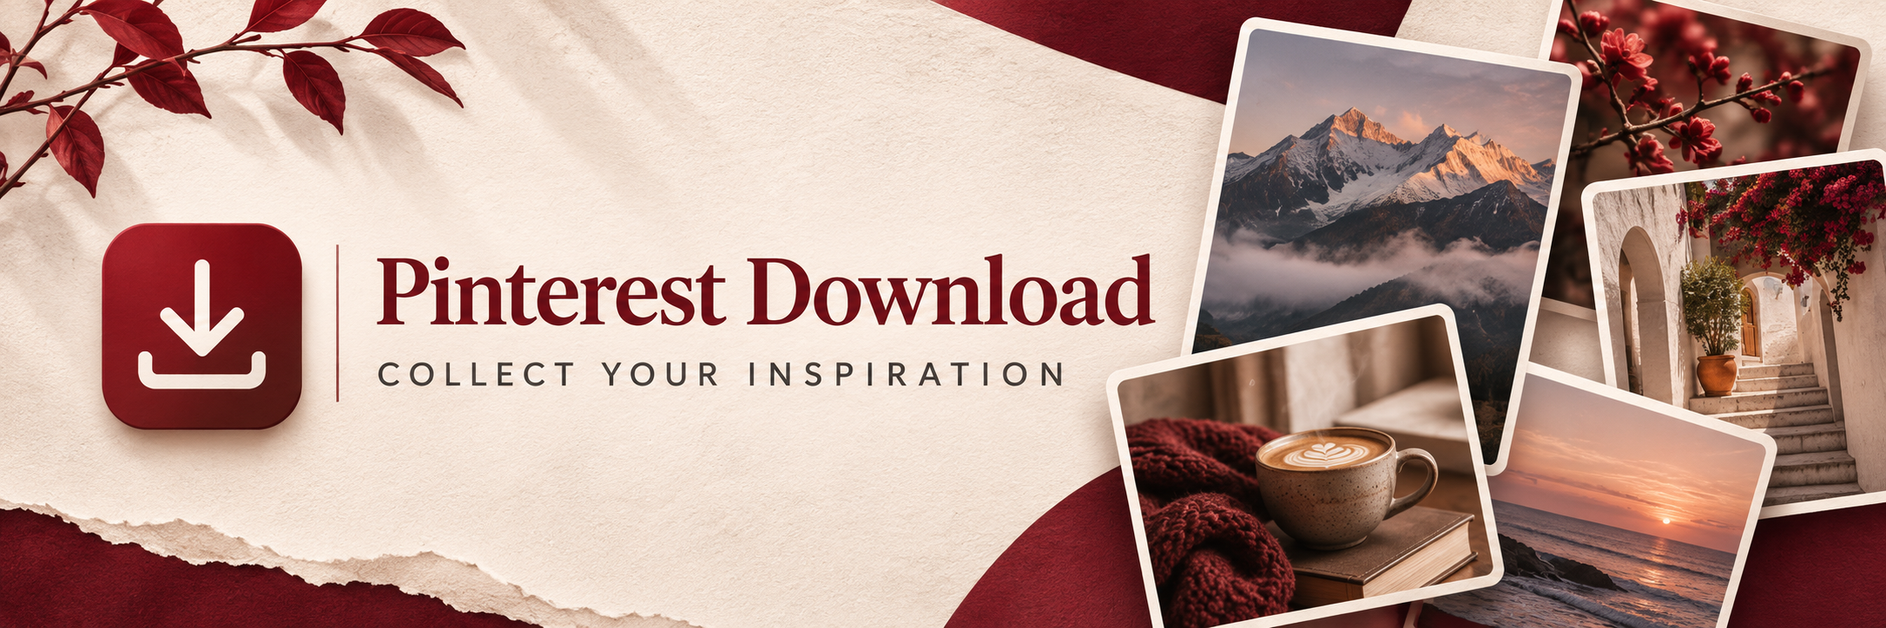
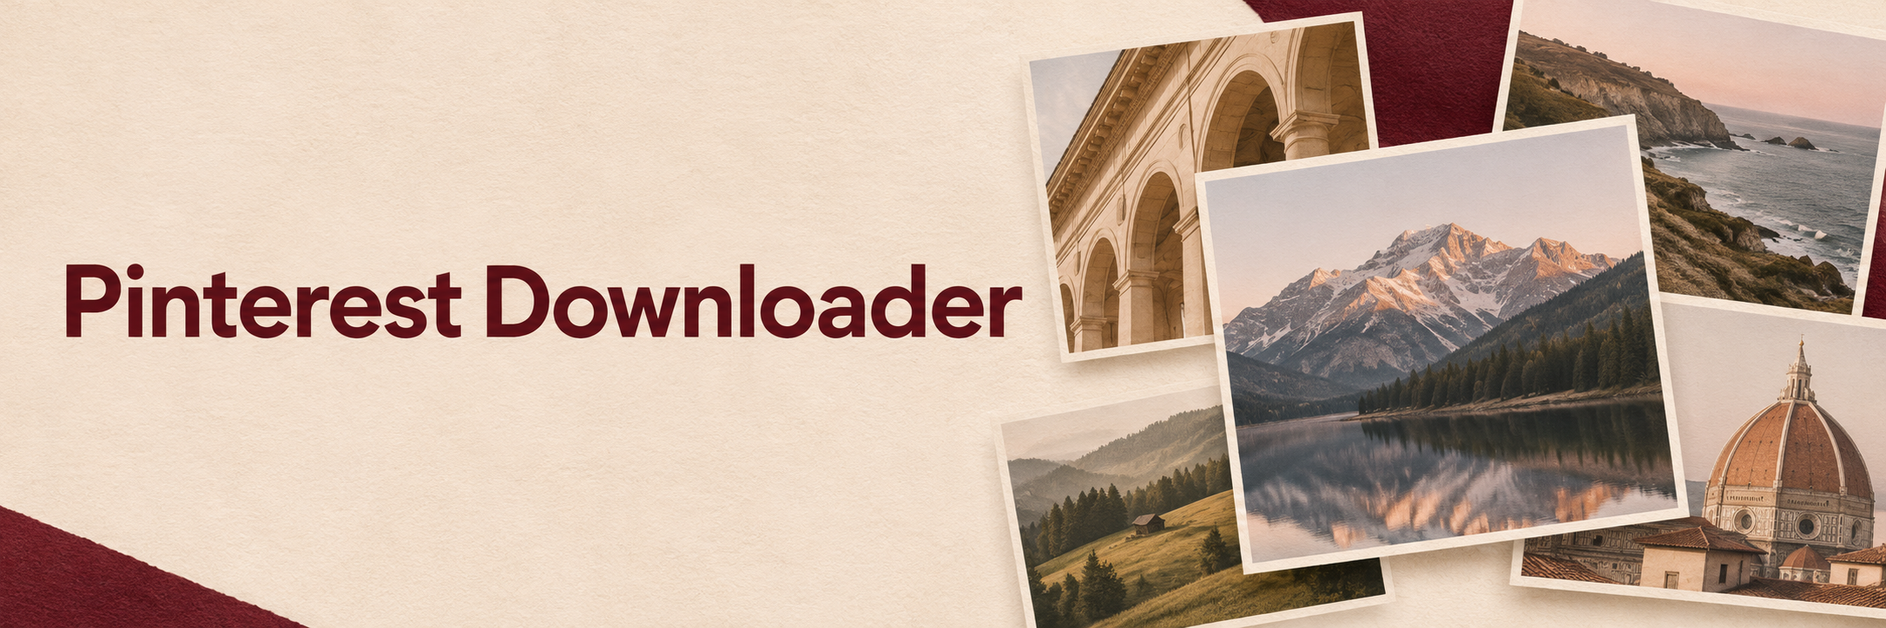
docs: Обновил оформление Pinterest Downloader
Обновил название приложения и ссылки после переименования репозитория, заменил баннер и добавил документацию для участников и историю изменений. Описал настройки, прогресс и закрытие вкладок, включил документацию в архивы.

diff --git a/extension-firefox/popup.html b/extension-firefox/popup.html
@@ -1,5 +1,5 @@
-<!doctype html><html lang="ru"><head><meta charset="utf-8"><meta name="color-scheme" content="light dark"><link rel="stylesheet" href="popup.css"><title>Pinterest Download</title></head><body>
-<header><img src="icon128.png" alt=""><div><strong>Pinterest Download</strong><span>nekoty developer</span></div></header>
+<!doctype html><html lang="ru"><head><meta charset="utf-8"><meta name="color-scheme" content="light dark"><link rel="stylesheet" href="popup.css"><title>Pinterest Downloader</title></head><body>
+<header><img src="icon128.png" alt=""><div><strong>Pinterest Downloader</strong><span>nekoty developer</span></div></header>
 <main><div id="connection" class="status">Проверяем подключение...</div><p id="progress">Ожидаем данные</p>
 <label for="browser">Ваш браузер</label><select id="browser"><option>Chrome / Chromium</option><option>Google Chrome</option><option>Microsoft Edge</option><option>Яндекс Браузер</option><option>Brave</option><option>Opera</option><option>Helium</option><option>Firefox</option><option>Другой браузер</option></select>
 <button id="sync">Обновить вкладки</button><button id="load" class="secondary">Загрузить выгруженные вкладки</button><p id="result" role="status"></p>

diff --git a/extension/popup.html b/extension/popup.html
@@ -1,5 +1,5 @@
-<!doctype html><html lang="ru"><head><meta charset="utf-8"><meta name="color-scheme" content="light dark"><link rel="stylesheet" href="popup.css"><title>Pinterest Download</title></head><body>
-<header><img src="icon128.png" alt=""><div><strong>Pinterest Download</strong><span>nekoty developer</span></div></header>
+<!doctype html><html lang="ru"><head><meta charset="utf-8"><meta name="color-scheme" content="light dark"><link rel="stylesheet" href="popup.css"><title>Pinterest Downloader</title></head><body>
+<header><img src="icon128.png" alt=""><div><strong>Pinterest Downloader</strong><span>nekoty developer</span></div></header>
 <main><div id="connection" class="status">Проверяем подключение...</div><p id="progress">Ожидаем данные</p>
 <label for="browser">Ваш браузер</label><select id="browser"><option>Chrome / Chromium</option><option>Google Chrome</option><option>Microsoft Edge</option><option>Яндекс Браузер</option><option>Brave</option><option>Opera</option><option>Helium</option><option>Firefox</option><option>Другой браузер</option></select>
 <button id="sync">Обновить вкладки</button><button id="load" class="secondary">Загрузить выгруженные вкладки</button><p id="result" role="status"></p>

diff --git a/MainWindow.cs b/MainWindow.cs
@@ -65,7 +65,7 @@ sealed class MainWindow : Window
         history = new DownloadHistory(historyFile);
         downloader = new ImageDownloader(client, history);
         if (history.LoadError != null) notice.Text = "Не удалось прочитать историю загрузок: " + history.LoadError;
-        Title = "Pinterest Download"; Width = 1200; Height = 800; MinWidth = 700; MinHeight = 500;
+        Title = "Pinterest Downloader"; Width = 1200; Height = 800; MinWidth = 700; MinHeight = 500;
         try { Icon = new WindowIcon(AssetLoader.Open(new Uri("avares://PinterestDownload/docs/icon.png"))); } catch { }
         var choose = new Button { Content = "Изменить папку" };
         AutomationProperties.SetName(browserFilter, "Выбор браузера");
@@ -86,7 +86,7 @@ sealed class MainWindow : Window
         DockPanel.SetDock(buttons, Dock.Right); top.Children.Add(buttons); top.Children.Add(folderLabel);
         var toolbar = new WrapPanel { Orientation = Orientation.Horizontal, Children = { countLabel, select, repeat, closeTabs } };
         foreach (Control control in toolbar.Children) control.Margin = new Thickness(0, 0, 14, 4);
-        var headerText = new StackPanel { Spacing = 4, Children = { new TextBlock { Text = "Pinterest Download", FontSize = 27, FontWeight = FontWeight.Bold }, new TextBlock { Text = "Ваши пины в одном месте", Opacity = .7 } } };
+        var headerText = new StackPanel { Spacing = 4, Children = { new TextBlock { Text = "Pinterest Downloader", FontSize = 27, FontWeight = FontWeight.Bold }, new TextBlock { Text = "Ваши пины в одном месте", Opacity = .7 } } };
         var header = new StackPanel { Orientation = Orientation.Horizontal, Spacing = 14, Children = { headerText } };
         try { header.Children.Insert(0, new Image { Source = new Bitmap(AssetLoader.Open(new Uri("avares://PinterestDownload/docs/icon.png"))), Width = 48, Height = 48 }); } catch { }
         var layout = new Grid { RowDefinitions = new RowDefinitions("Auto,Auto,Auto,Auto,Auto,Auto,Auto,*,Auto"), Margin = new Thickness(28), RowSpacing = 12 };

diff --git a/README.md b/README.md
@@ -1,10 +1,10 @@
-# Pinterest Download
+# Pinterest Downloader
 
-![Баннер Pinterest Download](docs/banner.png)
+![Баннер Pinterest Downloader](docs/banner.png)
 
 Приложение для Windows и Linux сохраняет изображения из открытых вкладок Pinterest. Интерфейс работает на Avalonia. Расширение передаёт список вкладок через локальное соединение.
 
-[Скачать последнюю версию](https://github.com/nekotyy/pinterest-download/releases/latest) | [Сообщить об ошибке](https://github.com/nekotyy/pinterest-download/issues/new/choose) | [Обсуждения](https://github.com/nekotyy/pinterest-download/discussions)
+[Скачать последнюю версию](https://github.com/nekotyy/pinterest-downloader/releases/latest) | [Сообщить об ошибке](https://github.com/nekotyy/pinterest-downloader/issues/new/choose) | [Обсуждения](https://github.com/nekotyy/pinterest-downloader/discussions)
 
 ## Возможности
 
@@ -12,11 +12,13 @@
 - Статус подключения расширений, обработки вкладок и загрузки файлов.
 - Предпросмотр, выбор пинов и папки для сохранения.
 - Предупреждение о ранее скачанном пине и повторное сохранение под новым именем.
+- Индикатор прогресса, отмена загрузки и закрытие вкладок сохранённых пинов.
+- Поиск пинов и скрытие уже скачанных изображений.
 - Светлая и тёмная темы в соответствии с настройками системы.
 
 ## Установка
 
-1. Скачай архив для своей системы со [страницы релизов](https://github.com/nekotyy/pinterest-download/releases/latest). Для доступа к приватному репозиторию нужно войти в GitHub.
+1. Скачай архив для своей системы со [страницы релизов](https://github.com/nekotyy/pinterest-downloader/releases/latest). Для доступа к приватному репозиторию нужно войти в GitHub.
 2. Распакуй архив целиком в постоянную папку.
 3. В Windows запусти `app/PinterestDownload.exe`. В Linux запусти `app/PinterestDownload`; при необходимости разреши выполнение командой `chmod +x app/PinterestDownload`. В Linux нужна графическая среда; в Wayland может потребоваться XWayland.
 4. Подключи расширение, как описано ниже. Краткая инструкция также находится в файле `ИНСТРУКЦИЯ.txt` внутри архива.
@@ -28,7 +30,7 @@
 1. Открой страницу расширений браузера: `chrome://extensions` в Chrome или `edge://extensions` в Edge. В других браузерах используй раздел расширений в меню.
 2. Включи режим разработчика и выбери загрузку распакованного расширения.
 3. Укажи папку `extension` из архива. Не перемещай её после установки. При обновлении удали старое расширение и подключи папку из нового архива.
-4. Открой расширение на панели браузера. При необходимости выбери название браузера и нажми «Обновить вкладки».
+4. Открой расширение на панели браузера. При необходимости выбери название браузера и нажми «Обновить вкладки». В настройках расширения можно изменить период обновления и число одновременно обрабатываемых вкладок.
 
 Разные браузеры на Chromium могут ограничивать установку распакованных расширений в своих настройках.
 
@@ -46,6 +48,10 @@
 
 Расширение обрабатывает вкладки параллельно с ограничением нагрузки. Приложение показывает карточки страницами по 100. Браузер может выгрузить неактивную вкладку из памяти. Чтобы запросить её повторную загрузку, нажми «Загрузить выгруженные вкладки» и оставь окно расширения открытым до окончания операции. Если браузер отклонит запрос, открой вкладку вручную.
 
+Индикатор показывает общий прогресс и прогресс текущего файла. Кнопка «Отменить» останавливает текущую загрузку и удаляет незавершённый файл.
+
+Кнопка «Закрыть скачанные вкладки» действует на выбранный браузер или на все браузеры, если выбран общий список. Закрываются только вкладки пинов, для которых найден сохранённый файл; будут закрыты и повторные вкладки одного пина. Команда доставляется при следующем обновлении расширения и действует две минуты. В режиме ручного обновления нажми «Обновить вкладки» в расширении.
+
 Ранее сохранённые пины определяются по идентификатору. История хранится локально и проверяет, существует ли файл. Проверка совпадения содержимого разных пинов не выполняется. Чтобы сохранить копию, включи «Скачивать повторно».
 
 ## Решение проблем
@@ -61,7 +67,9 @@
 
 Приложение не гарантирует исходное разрешение и не поддерживает отдельное скачивание видео. Используй материалы с учётом прав авторов и [условий Pinterest](https://policy.pinterest.com/en/terms-of-service).
 
-## Разработка
+## Разработка и участие
+
+Правила работы с исходным кодом и проверок описаны в [CONTRIBUTING.md](CONTRIBUTING.md), история изменений находится в [CHANGELOG.md](CHANGELOG.md).
 
 Для запуска из исходников нужны .NET 8 SDK и Node.js для проверки расширения:
 

diff --git a/docs/quickstart.md b/docs/quickstart.md
@@ -1,4 +1,4 @@
-PINTEREST DOWNLOAD: КАК НАЧАТЬ
+PINTEREST DOWNLOADER: КАК НАЧАТЬ
 
 1. ПОДГОТОВКА
 Полностью распакуйте скачанный архив в постоянную папку. Не запускайте программу прямо из архива.
@@ -22,7 +22,9 @@ Firefox:
 - Откройте нужные пины Pinterest в отдельных вкладках. Каждая вкладка должна вести на страницу /pin/.
 - Оставьте программу открытой. Через некоторое время в ней появятся изображения. Чтобы обновить список сразу, откройте расширение в браузере и нажмите «Обновить вкладки».
 - Выберите нужные карточки, нажмите «Изменить папку» и укажите место сохранения.
-- Нажмите «Скачать выбранные». Статус появится под каждым изображением.
+- Нажмите «Скачать выбранные». Индикатор покажет прогресс; кнопка «Отменить» остановит загрузку.
+- При необходимости используйте поиск или включите «Скрыть скачанные».
+- Кнопка «Закрыть скачанные вкладки» закрывает в выбранном браузере только пины с сохранёнными файлами. Выбор «Все браузеры» применяет команду ко всем подключённым браузерам. Команда выполняется при следующем обновлении расширения; для немедленного выполнения нажмите в нём «Обновить вкладки».
 
 ЕСЛИ НЕ РАБОТАЕТ
 - Убедитесь, что приложение запущено и расширение включено в том же профиле браузера, где открыты пины.
@@ -35,4 +37,4 @@ Firefox:
 Подробности и раздел помощи находятся в README.md и на странице проекта.
 
 БРАУЗЕРЫ И ПОВТОРНЫЕ ЗАГРУЗКИ
-В окне расширения выберите название браузера и проверьте состояние подключения. В приложении можно выбрать конкретный браузер или все сразу. Для неактивных вкладок используйте кнопку «Загрузить выгруженные вкладки» в расширении. Если браузер не разрешил загрузку, откройте вкладку вручную. Уже сохранённые пины помечаются; чтобы сохранить ещё одну копию, включите «Скачивать повторно».
+В окне расширения выберите название браузера и проверьте состояние подключения. В настройках можно изменить частоту обновления списка и количество одновременно обрабатываемых вкладок. В приложении можно выбрать конкретный браузер или все сразу. Для неактивных вкладок используйте кнопку «Загрузить выгруженные вкладки» в расширении. Если браузер не разрешил загрузку, откройте вкладку вручную. Уже сохранённые пины помечаются; чтобы сохранить ещё одну копию, включите «Скачивать повторно».

diff --git a/CONTRIBUTING.md b/CONTRIBUTING.md
@@ -1,0 +1,47 @@
+# Участие в разработке
+
+Репозиторий приватный. Для работы с ним нужен доступ, предоставленный владельцем. Ошибки и предложения можно описать через вкладку Issues; вопросы по использованию удобно обсуждать в Discussions. Не публикуйте пароли, cookies, закрытые ссылки и другие личные данные в сообщениях и журналах.
+
+## Подготовка
+
+Для разработки нужны Git, .NET 8 SDK и Node.js. Для проверки расширения нужен браузер на Chromium или Firefox.
+
+```powershell
+git clone https://github.com/nekotyy/pinterest-downloader.git
+cd pinterest-downloader
+dotnet run
+```
+
+Для Chromium загрузите папку `extension` как распакованное расширение. Для Firefox откройте `about:debugging#/runtime/this-firefox` и выберите `extension-firefox/manifest.json`. Временное расширение Firefox удаляется после перезапуска браузера.
+
+## Проверки
+
+Запустите проверки перед отправкой изменений:
+
+```powershell
+node tests/extension.test.js
+dotnet run --project tests/HistoryChecks/HistoryChecks.csproj
+```
+
+Первая команда проверяет синхронизацию, настройки и команды расширения на моделируемых вкладках. Вторая проверяет историю, фильтрацию, загрузку и очередь команд. GitHub Actions дополнительно собирает приложение и проверяет его запуск и локальное соединение на Windows и Linux.
+
+Если изменение затрагивает интерфейс или работу с Pinterest, дополнительно проверьте его вручную в нужных системе и браузере. Не закрывайте чужие вкладки и не используйте реальные личные данные в тестовых фикстурах.
+
+## Структура
+
+- `MainWindow.cs`: интерфейс и локальный HTTP-обмен с расширением.
+- `BrowserRegistry.cs`, `CloseCommands.cs`: состояние браузеров и очередь закрытия вкладок.
+- `DownloadHistory.cs`, `ImageDownloader.cs`, `PinFilter.cs`: история, загрузка и фильтрация.
+- `extension`, `extension-firefox`: версии расширения для Chromium и Firefox.
+- `tests`: проверки расширения, логики приложения и запуска сборок.
+
+Общие файлы расширения должны совпадать в обеих папках. Это проверяет `tests/extension.test.js`.
+
+## Изменения
+
+1. Создайте ветку для изменения и опишите решаемую задачу в Issue или Pull Request.
+2. Сохраните совместимость с данными пользователя, проверьте обработку ошибок и добавьте тест для новой нетривиальной логики.
+3. В Pull Request укажите, что изменилось и какие проверки запускались.
+4. Не добавляйте в репозиторий собранные файлы, cookies, токены и личные данные.
+
+Исходный код распространяется по лицензии [MIT](LICENSE).

diff --git a/CHANGELOG.md b/CHANGELOG.md
@@ -1,0 +1,25 @@
+# История изменений
+
+## 0.4.0
+
+- Добавлены индикатор прогресса и отмена скачивания.
+- Добавлено закрытие вкладок сохранённых пинов для выбранного браузера.
+- В расширении появились настройки частоты синхронизации и обработки вкладок.
+- Добавлены поиск по названию или ID и фильтр сохранённых изображений.
+- Обновлены название проекта, баннер и документация.
+- Добавлены лицензия MIT и дополнительные проверки загрузок и команд расширения.
+
+## 0.3.0
+
+- Добавлены состояние браузеров, история скачиваний и повторное сохранение.
+- Добавлена обработка больших списков и загрузка выгруженных вкладок.
+- Добавлены темы интерфейса и значки приложения и расширения.
+
+## 0.2.0
+
+- Интерфейс переведён на Avalonia для Windows и Linux.
+- Добавлено временное расширение для Firefox.
+
+## 0.1.0
+
+- Первая версия приложения для Windows и расширения для Chromium.
